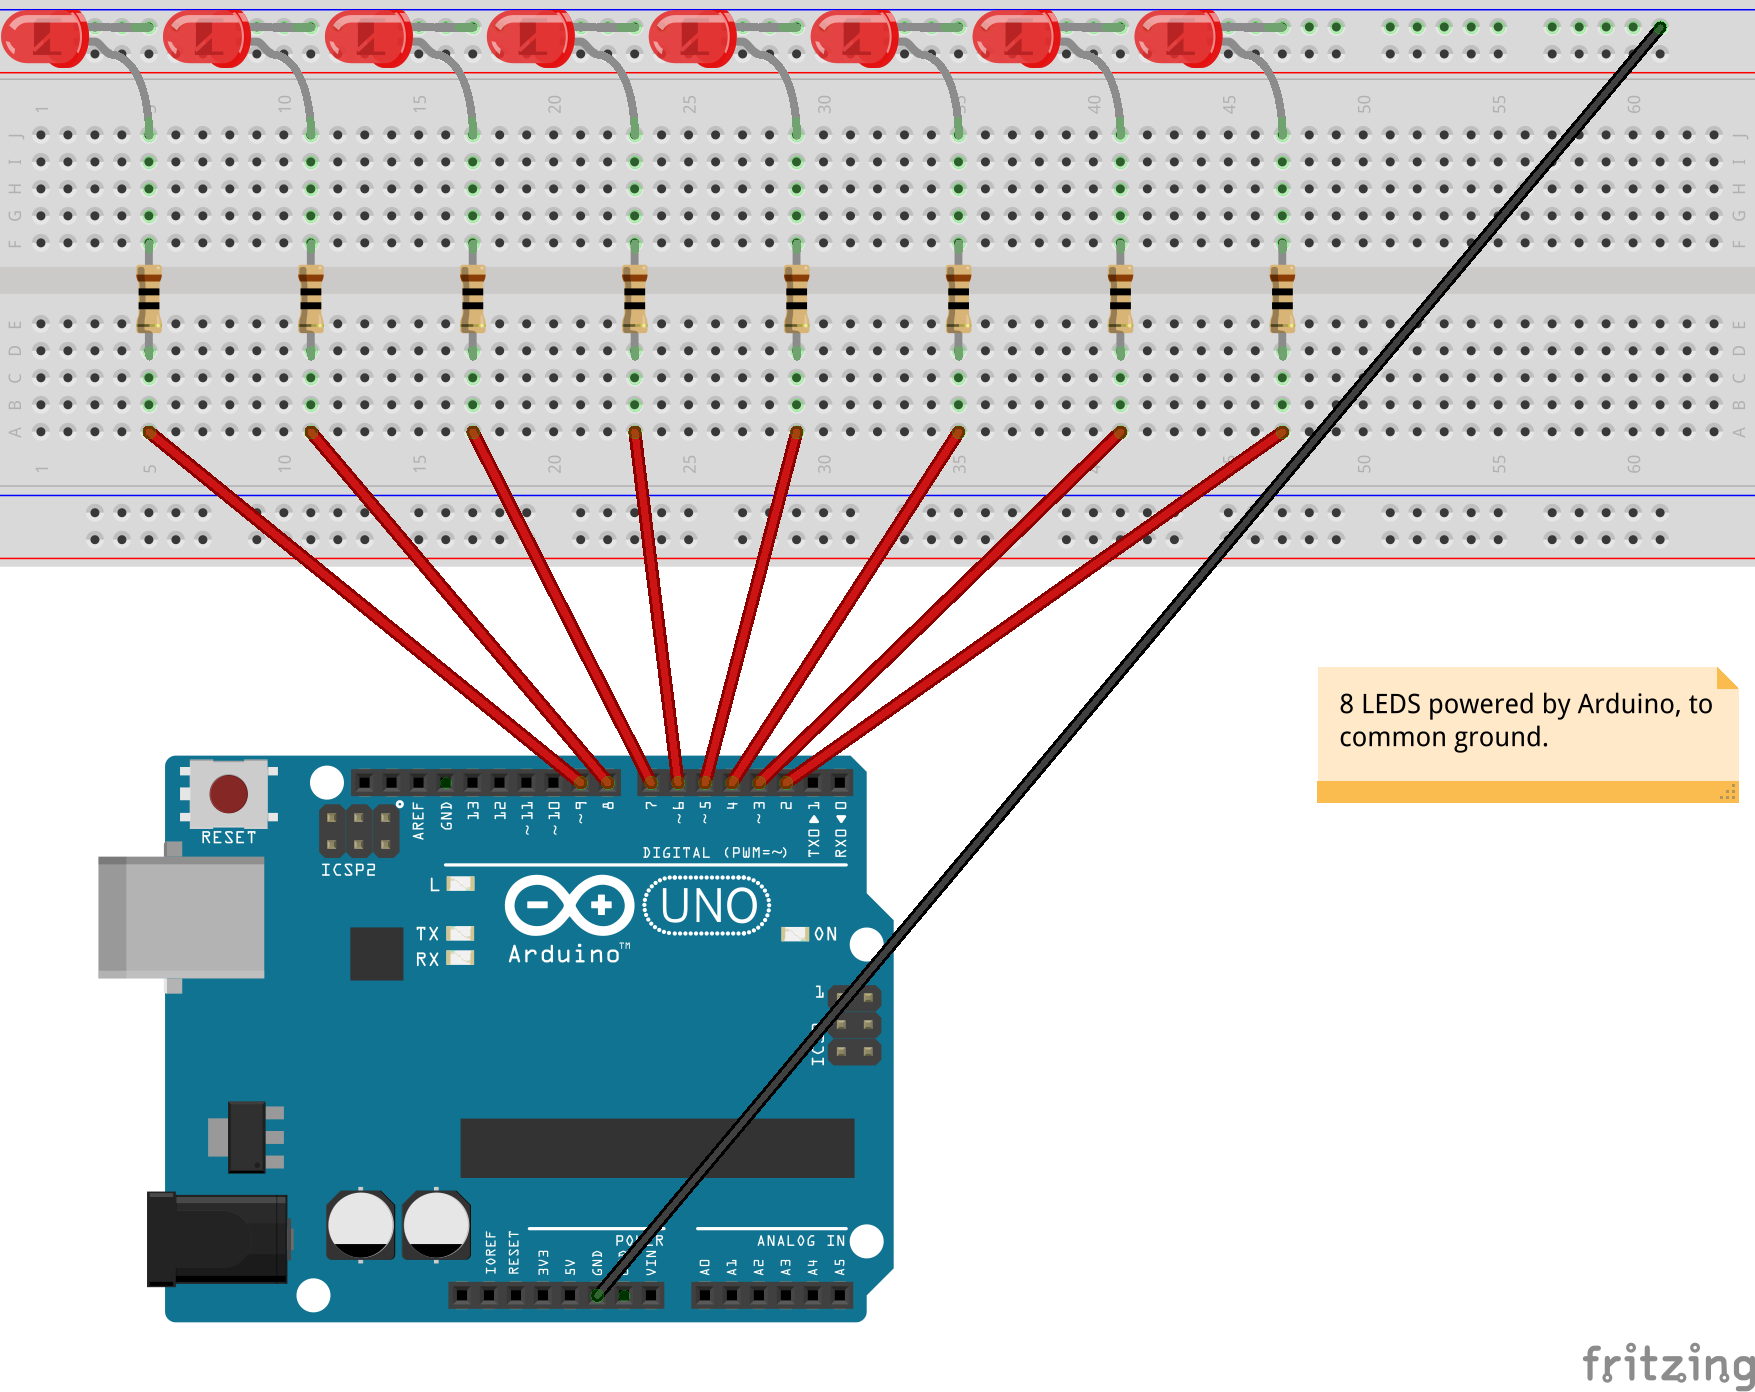
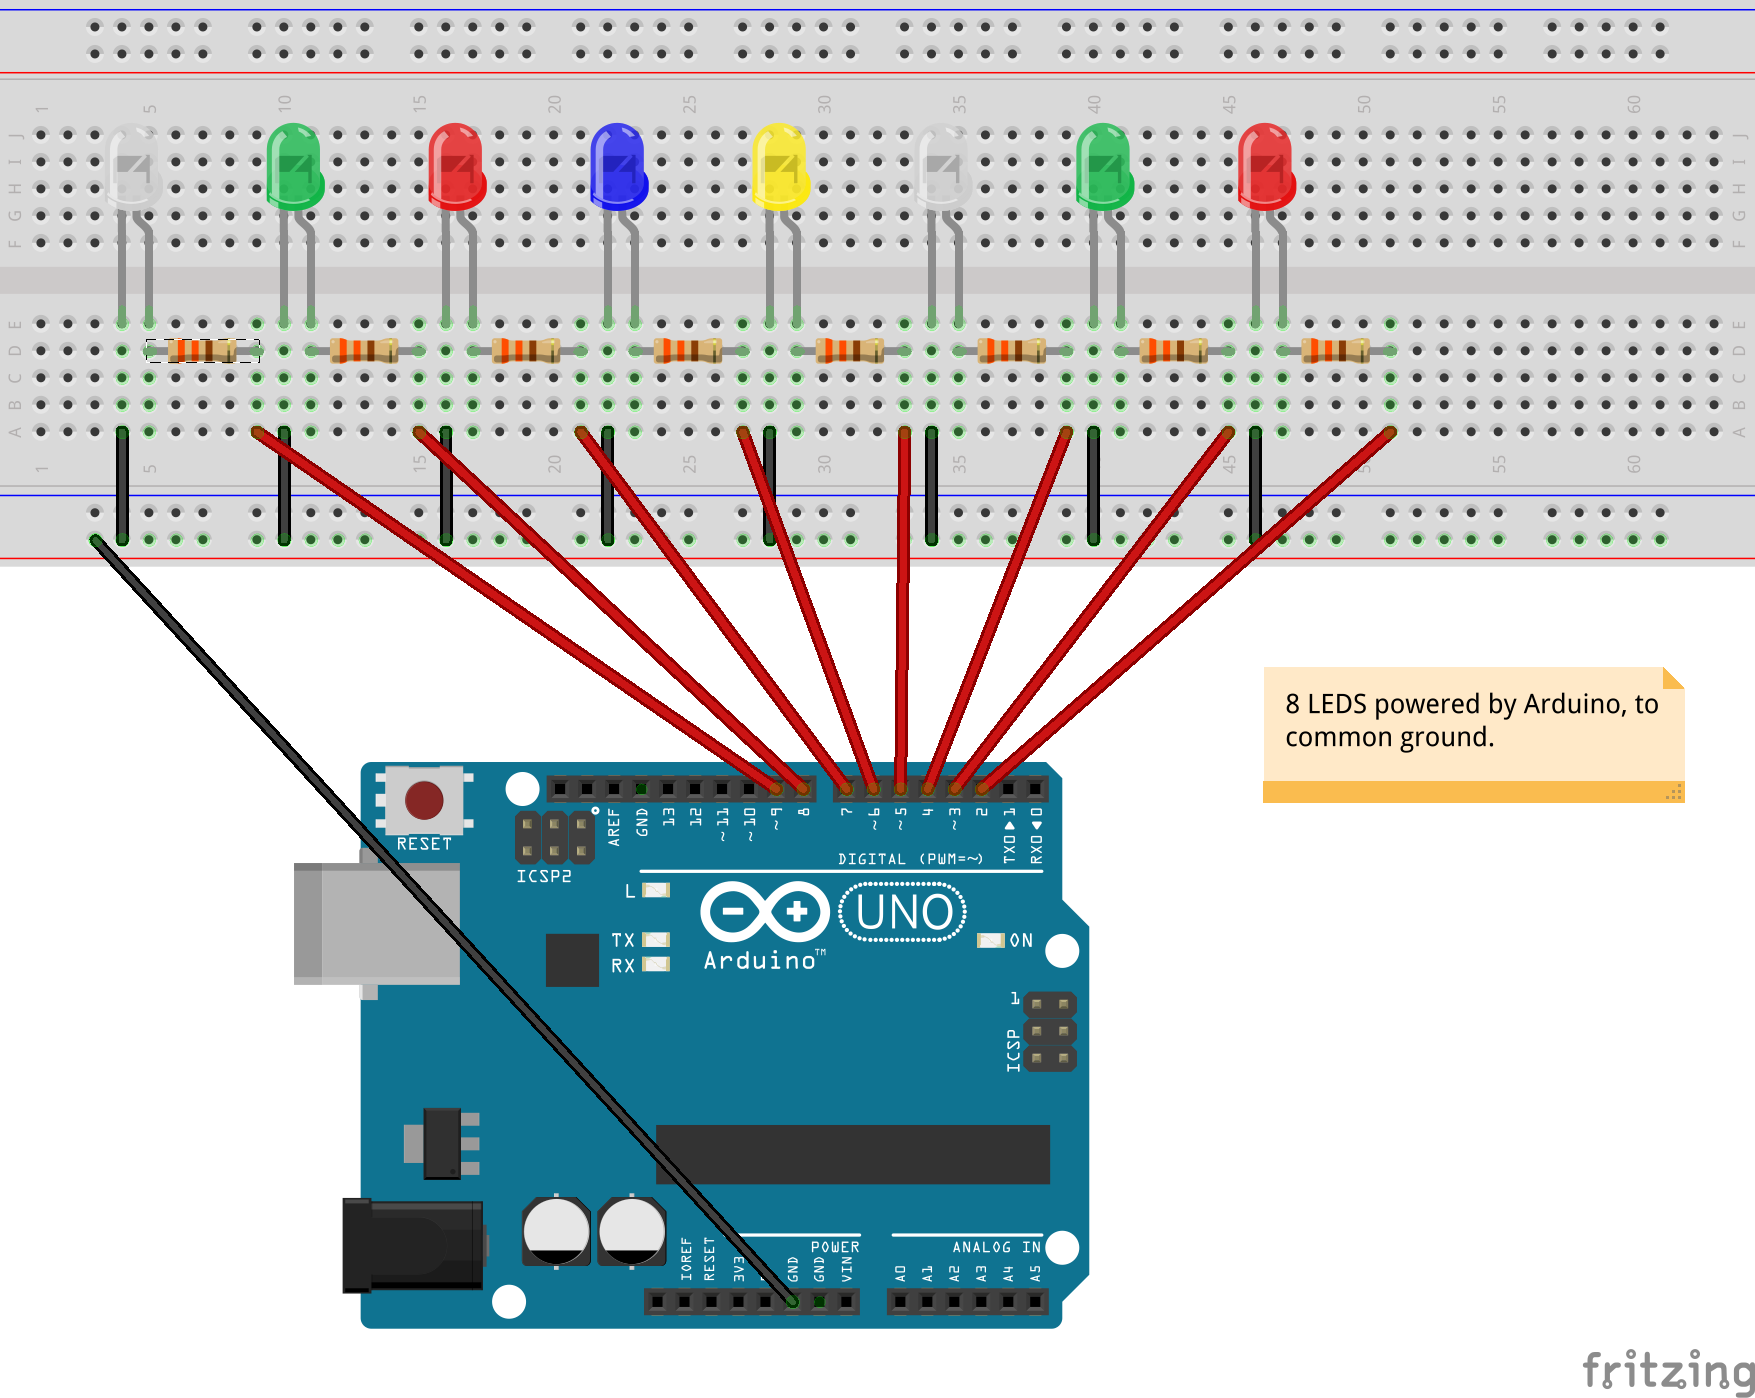
being explicit about 330ohm resistors

diff --git a/many-leds.md b/many-leds.md
@@ -2,11 +2,11 @@
 
 In this lab, you'll play with 8 LEDs in a row. Each LED can represent a "bit" and together form an 8 bit byte. You can use this array to show levels, for example, to show how loud an amplifier is, or to indicate the temperature.
 
-1.  Start with the following circuit. Make sure to orient the LED correctly -- the flat side should be on top as in the diagram below. Connect the LED legs to pins 2 through 9 respectively:
+1.  Start with the following circuit. Make sure to orient the LED correctly -- the flat side should be on top as in the diagram below. Use resistors close in value to 330&Omega;, as shown below. Connect the LED legs to pins 2 through 9 respectively:
 
     ![legs-connected-to-pins dim=400wL](img/8LEDs.png "Fritzing for LEDs on pins 2 to 9") ![legs-connected-to-pins dim=400wL](img/8LEDsSchematic.png "Fritzing for LEDs on pins 2 to 9")
 
-    The LEDs can be arranged in any color combination you choose. For example, you could emulate a signal meter that is green until you get to a certain level, and then turns red.  
+    The LEDs can be arranged in any color combination you choose. For example, you could emulate a signal meter that is green until you get to a certain level, and then turns red.
 
 2.  Write code to turn all the LEDs on, then turn them all off.
     <%= EightLEDsStart.ino =%>
